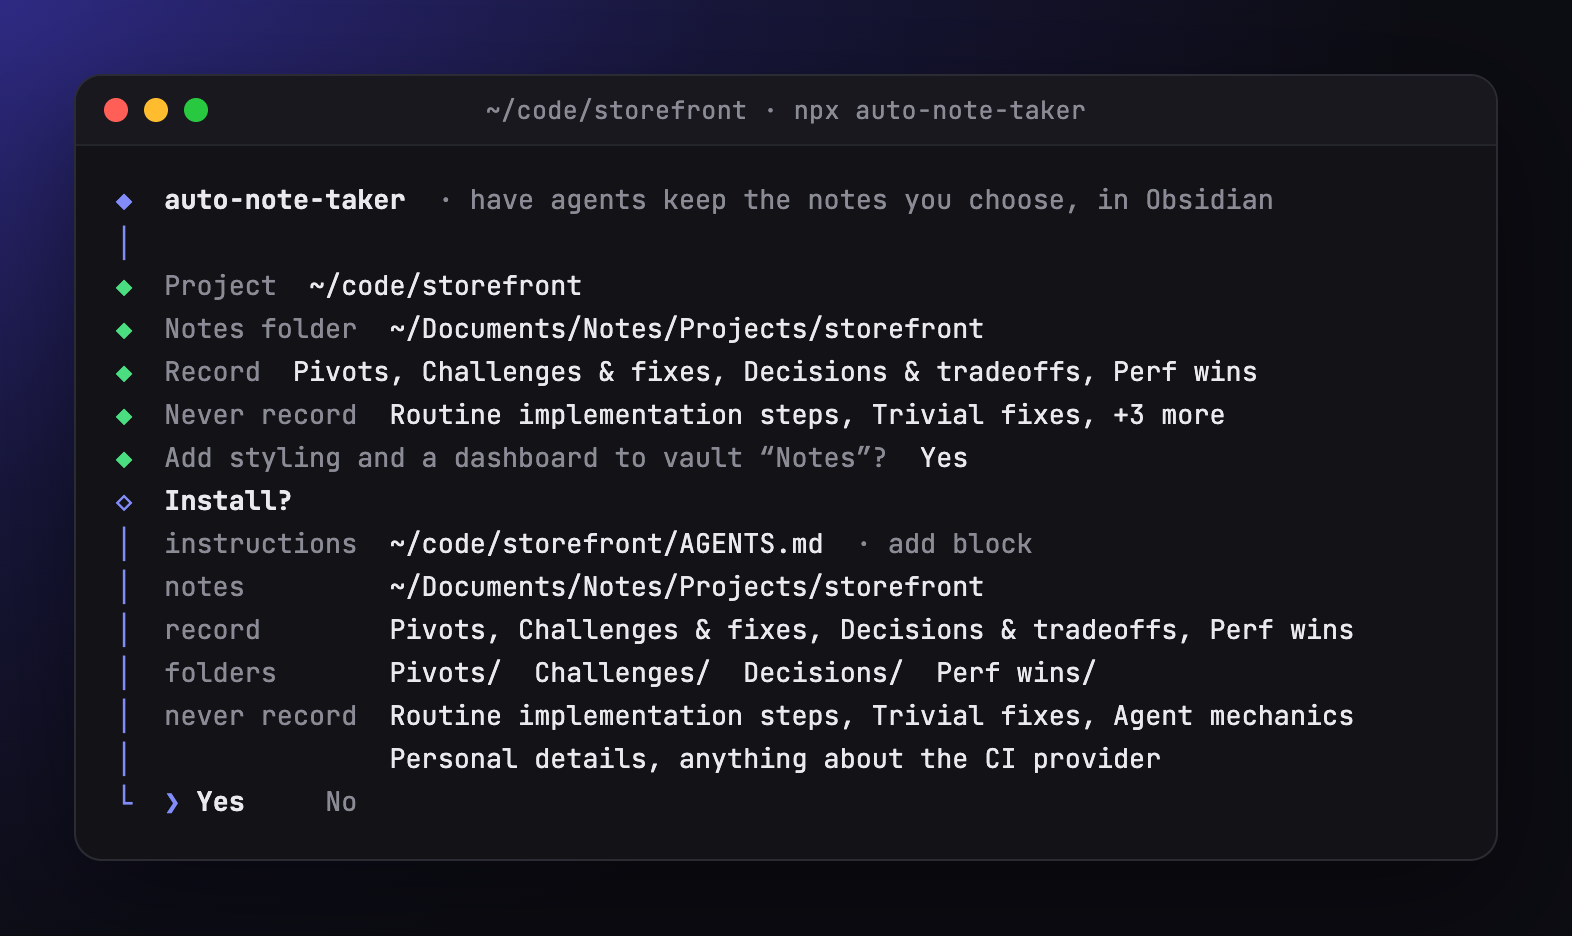
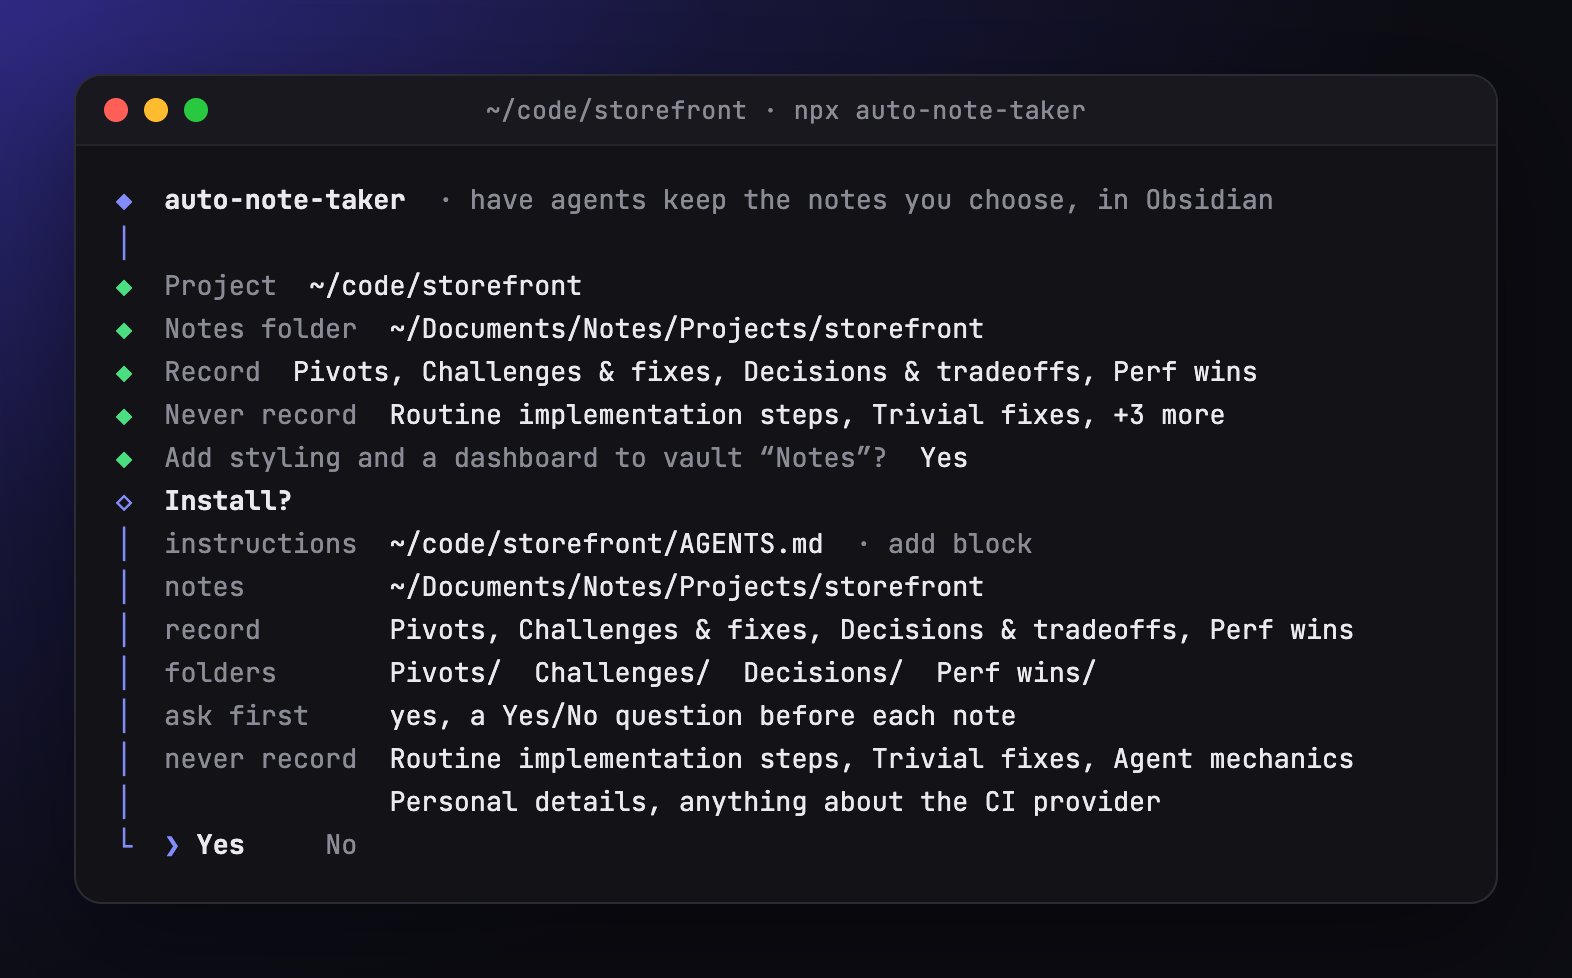
Timestamp notes to the second and ask before writing each one
Note properties, banners and quote labels now carry local date and time
to the second, read from the clock. Agents ask the user a Yes/No question
in their UI before creating or updating a note, unless the install is run
with --headless, which is never remembered between runs.

diff --git a/README.md b/README.md
@@ -34,7 +34,9 @@ The instructions are a plain prompt, not a skill or plugin, so any agent that re
 It asks what to record and what to leave out, then adds a block between `<!-- BEGIN tactical-direction-context -->` and `<!-- END tactical-direction-context -->` to the project's `AGENTS.md`.
 The block holds the rules for exactly the kinds you chose, and nothing for the ones you did not.
 2. **Your agent reads `AGENTS.md` at the start of every session**, as Codex, Cursor and many other coding agents already do (for Claude Code, see [Requirements](#requirements)).
-3. **When one of those moments happens, the agent writes or updates a note** in that kind's folder.
+3. **When one of those moments happens, the agent asks you first**, with a Yes/No selector in its UI that names the note's kind, title and path.
+It writes or updates the note in that kind's folder only when you answer Yes.
+Agents that run unattended can skip the question; see [`--headless`](#install-without-prompts).
 When the related work is finished, it links the note to its implementation summary.
 
 Nothing runs in the background.
@@ -198,6 +200,9 @@ npx --yes github:andyqioe/auto-note-taker \
   --add-skip 'anything about the CI provider' \
   --obsidian-extras
 
+# Agents that run unattended (CI, scheduled jobs) write notes without asking
+npx --yes github:andyqioe/auto-note-taker --project . --yes --headless
+
 # Pin a reviewed commit for reproducible installs
 npx --yes github:andyqioe/auto-note-taker#COMMIT_SHA --project . --yes
 ```
@@ -212,6 +217,7 @@ npx --yes github:andyqioe/auto-note-taker#COMMIT_SHA --project . --yes
 | `--add-skip TEXT` | Also never record this, in your words; repeat for several. |
 | `--obsidian-extras` | Also install the styling snippet and dashboard, if the notes folder is inside a vault. |
 | `--no-obsidian-extras` | Never offer or install them. |
+| `--headless` | Let agents write notes without asking. By default the block tells agents to ask a Yes/No question before each note, and to write nothing when no one can answer. It is never remembered: pass it on every run that should stay headless, `--check` included. |
 | `--yes`, `-y` | Do not prompt; use defaults for anything not given. |
 | `--check` | Report whether the block is current, without writing. |
 | `--help`, `-h` | Print usage. |
@@ -261,8 +267,8 @@ The screenshots show a tactical-direction note; every other kind shares the same
 ```yaml
 ---
 status: agreed                 # the kind's own vocabulary, here agreed | pending | superseded
-created: 2026-10-05
-updated: 2026-10-05
+created: 2026-10-05T14:32:07  # local time to the second, read from the clock
+updated: 2026-10-05T16:08:41
 tags: [tactical-direction, webhook/delivery]
 aliases: ["Retry failed webhook deliveries with a fixed 30-second delay"]
 implementation:                # the implementation-summary link, once it exists
@@ -270,6 +276,7 @@ cssclasses: [agent-note]
 ---
 ```
 
+Obsidian shows `created` and `updated` as date-and-time properties, so the dashboard orders notes written on the same day correctly.
 The kind's tag (here `tactical-direction`) is what the dashboard queries, and the nested tag groups notes by area in Obsidian's tag pane.
 The alias repeats the title in quotes, because an unquoted comma would split it into several aliases.
 

diff --git a/context/AGENTS.md b/context/AGENTS.md
@@ -5,6 +5,8 @@ These notes are read later by the user in Obsidian and by future agents deciding
 The user chose what to record and what to leave out; record only what "Record" asks for, and when a moment also matches "Do not record", leave it out.
 When a topic already has a note, update that note instead of starting another.
 
+{{ask_section}}
+
 ### Record
 
 {{record_list}}
@@ -28,8 +30,8 @@ Use only core Obsidian features, so a note reads well with no plugins installed,
 ````markdown
 ---
 status: resolved
-created: 2026-10-05
-updated: 2026-10-05
+created: 2026-10-05T14:32:07
+updated: 2026-10-05T16:08:41
 tags: [challenge, queue/retry]
 aliases: ["Retries pile up because the lock outlives the worker"]
 implementation:
@@ -38,7 +40,7 @@ cssclasses: [agent-note]
 
 # Retries pile up because the lock outlives the worker
 
-> [!success|banner] Resolved 2026-10-05
+> [!success|banner] Resolved 2026-10-05 16:08:41
 > The job lock now expires with the worker's lease, so a crashed worker no longer blocks its retries.
 
 ## 1. Symptom
@@ -46,6 +48,7 @@ cssclasses: [agent-note]
 ````
 
 - Properties: keep exactly these, because they sit above the banner and every extra row pushes it down. `status` uses the kind's own vocabulary (listed in its section); keep `updated` current; `tags` holds the kind's tag plus a nested `category/subcategory` tag (the tags are what dashboards query); `implementation` holds the summary link once it exists.
+- Times: write `created` and `updated` as local date and time to the second, `YYYY-MM-DDTHH:mm:ss`, so Obsidian reads them as date and time. Read the clock for every write (for example `date +%Y-%m-%dT%H:%M:%S`); never guess or round a time, and never write a date alone. Any other time in a note (a banner, a quote label) uses the same clock reading, written `YYYY-MM-DD HH:mm:ss`.
 - Title: a sentence-case statement a person would search for, not the filename. Repeat it in `aliases`, double-quoted, since an unquoted comma splits it into several aliases.
 - Banner: the first block after the title is a callout with `|banner` metadata that states the note's point in one or two sentences. Its type carries the status color, as each kind's section says.
 - Callout colors carry meaning, so use each type only for its role: `abstract` for a proposal or the approach before a change, `warning` for what the user changed or rejected and for caveats, `success` for agreed rules and what now holds, `failure` for what was abandoned, `todo` for open follow-ups, `quote` for verbatim messages. Keep the rest as plain prose, tables, and lists; a note where everything is a callout has no emphasis.

diff --git a/context/kinds/tactical-direction.md b/context/kinds/tactical-direction.md
@@ -13,5 +13,5 @@ Do not silently replace the user's direction with an agent's preferred policy.
 #### Verbatim exchange
 
 - Preserve verbatim copies of the relevant user responses and agent responses in fenced `text` code blocks, each with an explicit User or Agent label, in chronological order. Keep the quoted exchange alongside the summary and reconciliation; do not substitute paraphrases for the copies.
-- Put the exchange under `### Exchange (verbatim)` at the end of `3. User Disagreement`. Wrap each message in a `quote` callout whose metadata names the speaker (`> [!quote|user] User · 2026-10-05`, `> [!quote|agent]- Agent · 2026-10-05`), with the fence inside it. Every line of a callout, including blank lines, starts with `>`. Fold agent messages longer than about 15 lines with `-`; keep user messages open, because they are the direction.
+- Put the exchange under `### Exchange (verbatim)` at the end of `3. User Disagreement`. Wrap each message in a `quote` callout whose metadata names the speaker (`> [!quote|user] User · 2026-10-05 14:32:07`, `> [!quote|agent]- Agent · 2026-10-05 14:33:15`), with the fence inside it. Every line of a callout, including blank lines, starts with `>`. Fold agent messages longer than about 15 lines with `-`; keep user messages open, because they are the direction.
 - The agent's proposal goes in an `abstract` callout under `2. Agent Proposal`, and what the user changed in a `warning` callout under `3. User Disagreement`.

diff --git a/context/ask.md b/context/ask.md
@@ -1,0 +1,7 @@
+### Ask before writing
+
+Before creating or updating a note, ask the user with an explicit Yes/No selector in your UI (a multiple-choice question tool, such as AskUserQuestion, with exactly the options Yes and No), not a question buried in prose.
+Name the kind, the title and the file path in the question, so the user can decide without opening anything.
+Write the note only on Yes. On No, leave it unwritten and do not ask again about the same moment.
+Ask once the moment is settled, not mid-step. When several notes are pending, give each its own Yes/No question in the same prompt when the tool allows it.
+If no user can answer (a non-interactive run), do not write the note.
